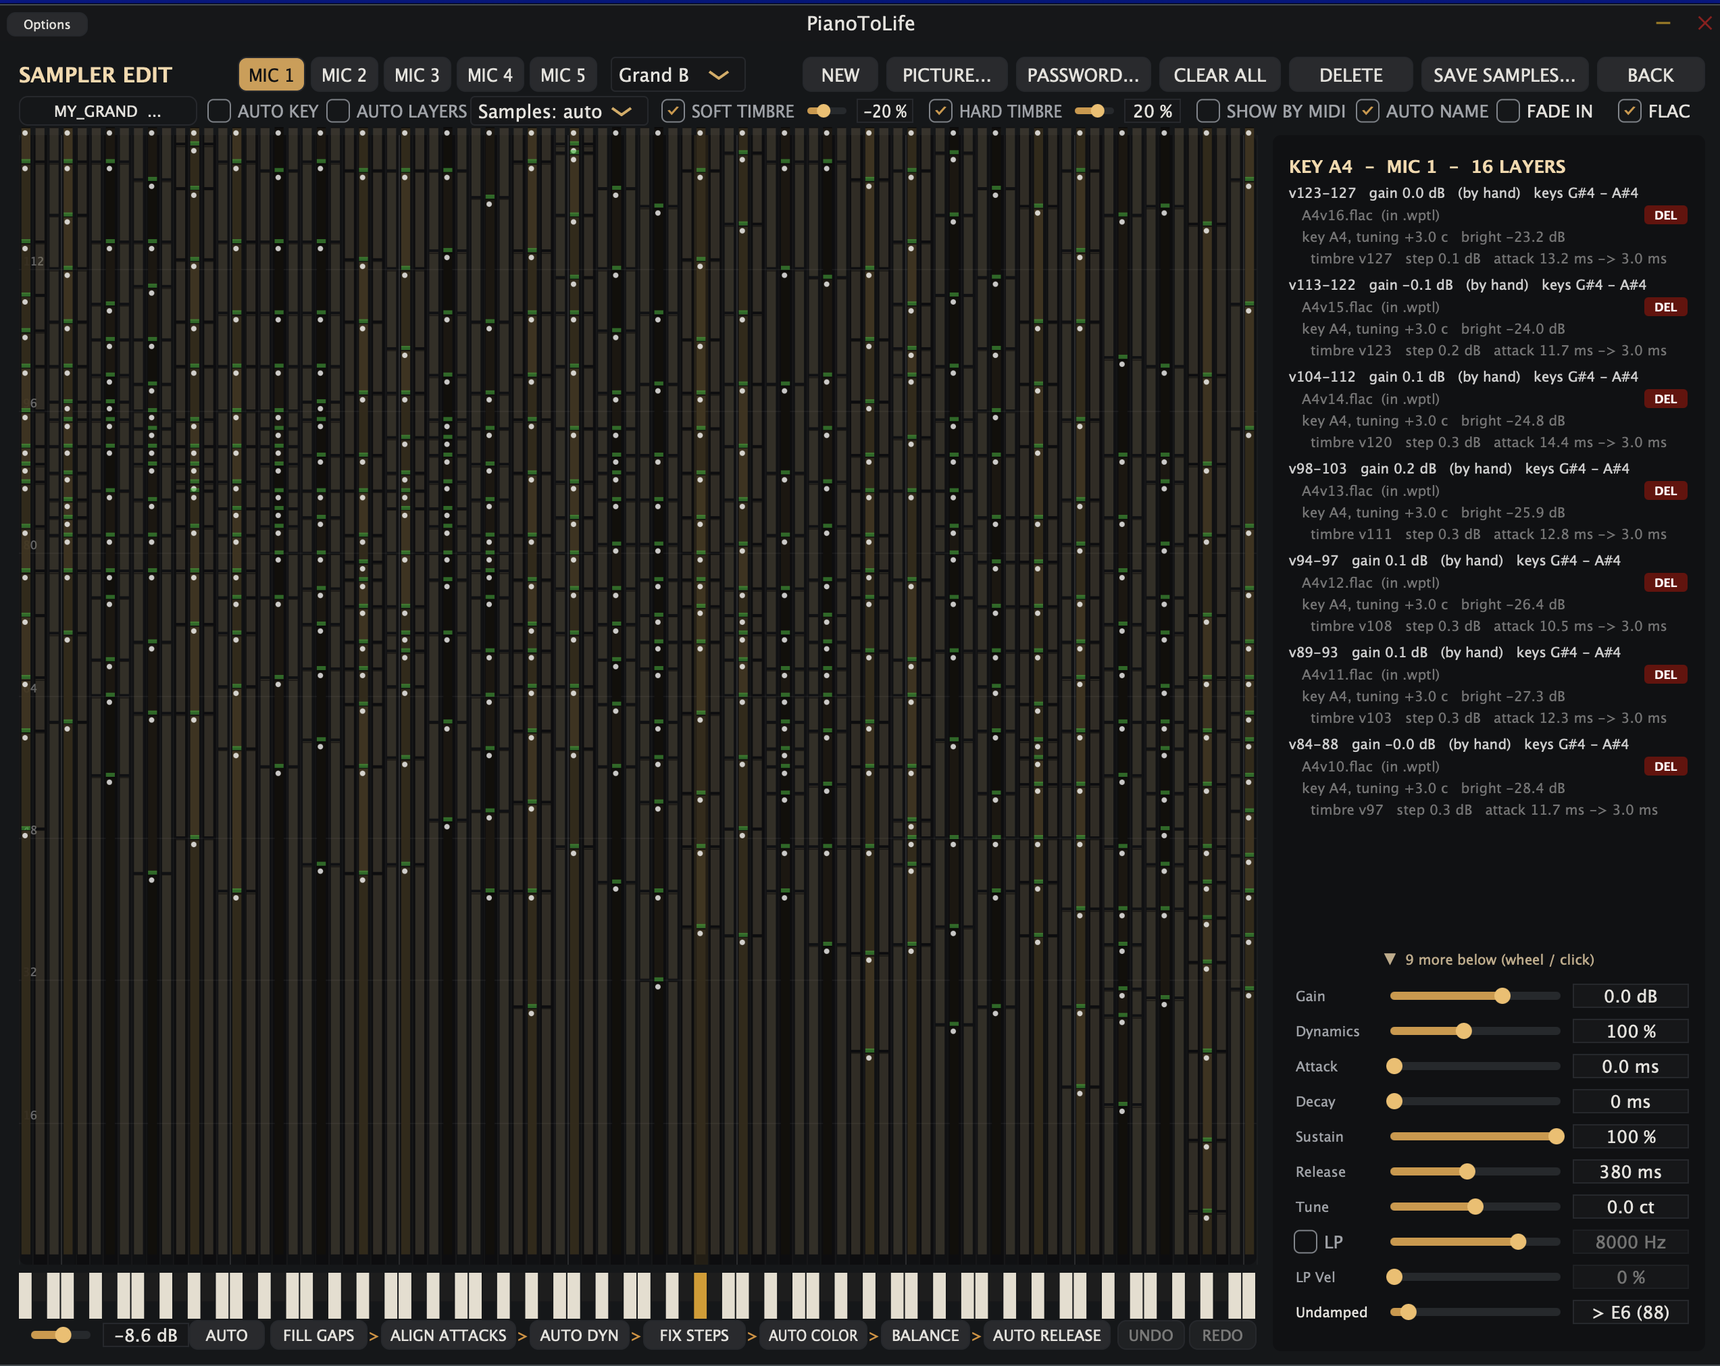
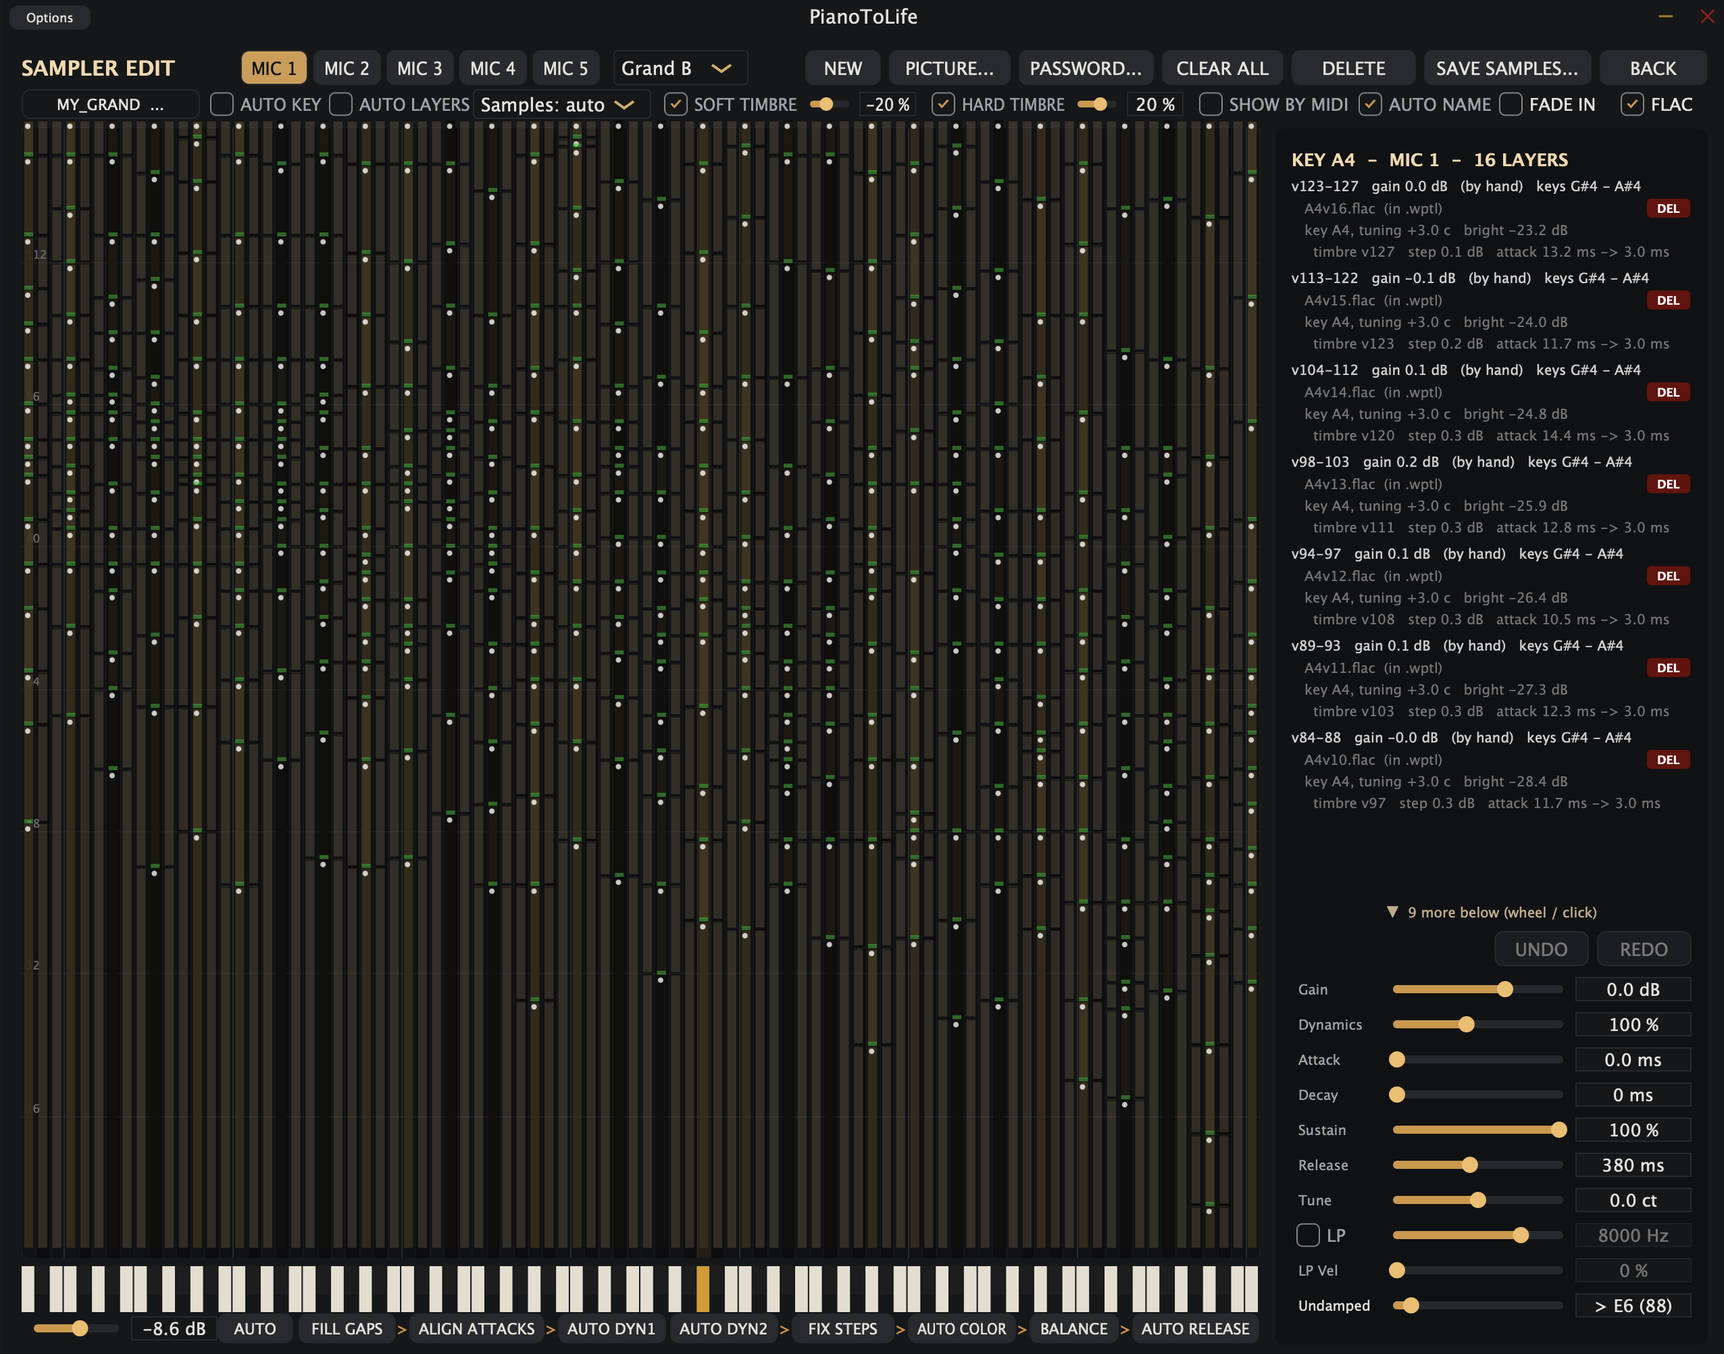
Add files via upload

diff --git a/MANUEL_SAMPLER.md b/MANUEL_SAMPLER.md
@@ -54,8 +54,9 @@ gigaoctets) sont lues depuis le disque en streaming et jouent tout aussi bien.
    couches de vélocité. Une barre de progression suit l'import ; cliquez sur la ligne d'état pour l'arrêter.
 5. Pour les autres positions de micro, choisissez **MIC 2**, **MIC 3**… et déposez leurs échantillons de la même
    façon.
-6. Cliquez sur **AUTO DYN** : PianoToLife écoute le A4, place ses couches sur l'intensité d'un vrai piano à queue,
-   puis cale toutes les touches de la même façon.
+6. Cliquez sur **AUTO DYN1** (une banque enregistrée de façon régulière d'une touche à l'autre) ou **AUTO DYN2** (une
+   banque irrégulière) : PianoToLife écoute le A4, place ses couches sur l'intensité d'un vrai piano à queue, puis cale
+   toutes les touches (10.6.2).
 7. Cliquez sur **FIX STEPS** : les frontières orange et rouges entre couches deviennent vertes.
 8. Cliquez sur **ALIGN ATTACKS** : chaque frappe démarre au même instant, quels que soient la couche et le micro.
 9. Cliquez sur **BALANCE ▸ Smooth** : le volume est régulier d'une touche à l'autre.
@@ -64,7 +65,8 @@ gigaoctets) sont lues depuis le disque en streaming et jouent tout aussi bien.
     et cliquez sur **SAVE AS** : l'instrument (`.ptlset`) est enregistré à côté de ses échantillons, avec le mapping et
     tous les réglages. Votre piano est prêt - deux fichiers, comme un `.nki` Kontakt et son `.nkx` (10.6.0).
 
-Chaque outil a son **UNDO** (Cmd / Ctrl + Z) et son **REDO** (Maj + Cmd / Ctrl + Z).
+Chaque outil a son **UNDO** (Cmd / Ctrl + Z) et son **REDO** (Maj + Cmd / Ctrl + Z) ; depuis la 10.6.2, les boutons
+UNDO et REDO sont dans le panneau de droite, juste au-dessus des réglages de la touche.
 
 ---
 
@@ -181,9 +183,9 @@ vélocité.
 ## 5. Les outils de mapping, dans l'ordre conseillé
 
 Les outils sont dans la barre du bas, **dans l'ordre où les utiliser**, avec un **>** entre eux (10.5.6) :
-**FILL GAPS > ALIGN ATTACKS > AUTO DYN > FIX STEPS > AUTO COLOR > BALANCE > AUTO RELEASE**. Avec des zones
-sélectionnées, la plupart agissent **sur leurs touches seulement** ; sans sélection, **sur toutes les touches** du
-micro affiché. AUTO DYN agit toujours sur toutes les touches. **SHOW BY MIDI** ne sélectionne rien : cliquez dans une
+**FILL GAPS > ALIGN ATTACKS > AUTO DYN1 ou AUTO DYN2 > FIX STEPS > AUTO COLOR > BALANCE > AUTO RELEASE**. Avec des
+zones sélectionnées, la plupart agissent **sur leurs touches seulement** ; sans sélection, **sur toutes les touches**
+du micro affiché. AUTO DYN1 et AUTO DYN2 agissent toujours sur toutes les touches. **SHOW BY MIDI** ne sélectionne rien : cliquez dans une
 partie vide de la grille pour vider la sélection avant de travailler sur toutes les touches.
 
 1. **FILL GAPS** — chaque touche sans échantillon est jouée par la touche échantillonnée la plus proche, transposée
@@ -191,10 +193,15 @@ partie vide de la grille pour vider la sélection avant de travailler sur toutes
 2. **ALIGN ATTACKS** — trouve la frappe dans chaque échantillon et fait démarrer chaque couche et chaque micro 3 ms
    avant : plus de flottement quand la nuance change, des micros en phase. Les fichiers ne sont pas modifiés. Avant
    AUTO DYN, pour qu'il écoute des frappes bien alignées.
-3. **AUTO DYN** (appelé RECAL A4 avant la 10.4.2) — écoute le A4 aux 127 vélocités, place ses couches là où leur
-   intensité les met sur la courbe de référence et les met à niveau. Il mesure aussi l'accord du A4 (envoyé à SR A4
-   Tuning : 440 Hz joue le set tel qu'il a été enregistré). **Depuis la 10.5.6, chaque autre touche est écoutée et
-   placée pour elle-même**, quel que soit son nombre de couches, sur la même courbe de référence (la courbe de niveau
+3. **AUTO DYN1 / AUTO DYN2** (10.6.2 ; un seul AUTO DYN avant, appelé RECAL A4 avant la 10.4.2) — tous deux écoutent
+   le A4 aux 127 vélocités, placent ses couches là où leur intensité les met sur la courbe de référence et les mettent
+   à niveau. Ils mesurent aussi l'accord du A4 (envoyé à SR A4 Tuning : 440 Hz joue le set tel qu'il a été enregistré).
+   Ensuite :
+   - **AUTO DYN1** (global, comme avant la 10.5.6) : chaque touche qui a **autant de couches que le A4** reçoit les
+     plages de vélocité du A4 et est mise à niveau ; les touches qui ont un autre nombre de couches restent telles
+     quelles (AUTO DYN2 les place). Pour une banque enregistrée de façon régulière d'une touche à l'autre.
+   - **AUTO DYN2** (par touche, l'AUTO DYN de la 10.5.6) : **chaque autre touche est écoutée et placée pour
+     elle-même**, quel que soit son nombre de couches, sur la même courbe de référence (la courbe de niveau
    de la référence est la même sur toutes les touches), puis **lissée avec ses voisines** (2 touches de chaque côté)
    pour que les frontières ne sautent pas d'une touche à l'autre, et mise à niveau. Les banques irrégulières (une
    couche jouée plus fort sur certaines touches, un échantillonnage à la main, une couche absente dans un registre)
@@ -206,7 +213,8 @@ partie vide de la grille pour vider la sélection avant de travailler sur toutes
    régulièrement de v1 jusqu'à la première couche au-dessus, leurs gains calés sur la courbe de référence (Dynamics ne
    change pas ; le souffle d'une couche très douce monte avec son gain).
 4. **FIX STEPS** — déplace les frontières orange et rouges vers la vélocité où les deux timbres se rejoignent,
-   lissée sur les touches voisines. À lancer **après** AUTO DYN (AUTO DYN replace les frontières selon l'intensité).
+   lissée sur les touches voisines. À lancer **après** AUTO DYN1 / DYN2 (ils replacent les frontières selon
+   l'intensité).
 5. **AUTO COLOR** (10.5.1) — règle SOFT COLOR et HARD COLOR pour que la brillance des couches suive la couleur du piano
    de référence, du piano au forte (mesurée sur A2, A3, A4, A5 à 13 vélocités, 2–4 et 4–8 kHz, comme sur la référence ;
    seule la forme compte, un piano peut rester plus clair ou plus sombre dans l'ensemble). SOFT / HARD TIMBRE activés.
@@ -221,7 +229,9 @@ partie vide de la grille pour vider la sélection avant de travailler sur toutes
 7. **AUTO RELEASE** — le temps de relâchement de chaque touche, mesuré sur un piano de concert (380 à 510 ms jusqu'à
    −60 dB), Infinite au-dessus de **Undamped Keys Above**. Ce réglage est aussi dans le panneau de touche
    (**Undamped**, le même que celui de la fenêtre principale) ; bougé à la main, les touches qui le franchissent
-   reçoivent de nouveau AUTO RELEASE (10.3.8).
+   reçoivent de nouveau AUTO RELEASE (10.3.8). Depuis la 10.6.2, AUTO RELEASE affiche d'abord la dernière touche avec
+   étouffoir et demande si c'est bien la dernière note étouffée de votre piano ; changez-la là si besoin (le même
+   réglage partout), puis AUTO RELEASE se lance.
 8. **LEVEL** et **AUTO** (à gauche des outils, près du curseur de niveau) — le niveau de tout le set ; AUTO fait
    culminer la note la plus forte à la vélocité 127 à −9 dBFS (de la marge pour les accords, la résonance et le
    relâchement). De préférence à la fin.

diff --git a/SAMPLER_MANUAL.md b/SAMPLER_MANUAL.md
@@ -52,8 +52,8 @@ disk and play just as well.
    Decent Sampler `.dspreset`. PianoToLife listens to each sample, finds its key, and places the velocity layers. A
    progress bar shows the import; click the status line to stop it.
 5. For other microphone positions, select **MIC 2**, **MIC 3**… and drop their samples the same way.
-6. Click **AUTO DYN**: PianoToLife listens to A4, places its layers on the loudness of a real grand, then maps every
-   key the same way.
+6. Click **AUTO DYN1** (a library recorded evenly key to key) or **AUTO DYN2** (an uneven one): PianoToLife listens
+   to A4, places its layers on the loudness of a real grand, then maps every key (10.6.2).
 7. Click **FIX STEPS**: the orange and red layer boundaries become green.
 8. Click **ALIGN ATTACKS**: every strike starts at the same moment, whatever the layer and microphone.
 9. Click **BALANCE ▸ Smooth**: the volume is even from one key to the next.
@@ -62,7 +62,8 @@ disk and play just as well.
     (`.ptlset`) is saved beside its samples with the mapping and every setting. Your piano is ready - two files, like a
     Kontakt `.nki` and its `.nkx` (10.6.0).
 
-Every tool has **UNDO** (Cmd / Ctrl + Z) and **REDO** (Shift + Cmd / Ctrl + Z).
+Every tool has **UNDO** (Cmd / Ctrl + Z) and **REDO** (Shift + Cmd / Ctrl + Z); since 10.6.2 the UNDO and REDO
+buttons are in the right panel, just above the key's settings.
 
 ---
 
@@ -172,9 +173,9 @@ or set its COLOR to −100 %. With SOFT TIMBRE on, the steps between velocity la
 ## 5. The mapping tools, in the recommended order
 
 The tools are in the bottom bar, **in the order to use them**, with **>** between them (10.5.6):
-**FILL GAPS > ALIGN ATTACKS > AUTO DYN > FIX STEPS > AUTO COLOR > BALANCE > AUTO RELEASE**. With zones selected,
-most of them work on **their keys only**; with nothing selected, on **every key** of the displayed microphone.
-AUTO DYN always works on every key. **SHOW BY MIDI** never selects anything: click an empty part of the grid to clear
+**FILL GAPS > ALIGN ATTACKS > AUTO DYN1 or AUTO DYN2 > FIX STEPS > AUTO COLOR > BALANCE > AUTO RELEASE**. With
+zones selected, most of them work on **their keys only**; with nothing selected, on **every key** of the displayed
+microphone. AUTO DYN1 and AUTO DYN2 always work on every key. **SHOW BY MIDI** never selects anything: click an empty part of the grid to clear
 a selection before working on every key.
 
 1. **FILL GAPS** — every key without a sample is played by the nearest sampled key, transposed (half the gap each
@@ -182,9 +183,13 @@ a selection before working on every key.
 2. **ALIGN ATTACKS** — finds the strike in every sample and makes every layer and every microphone start 3 ms before
    it: no flam when the dynamics change, microphones in phase. The files are not changed. Before AUTO DYN, so that it
    listens to well-aligned strikes.
-3. **AUTO DYN** (called RECAL A4 before 10.4.2) — listens to A4 at all 127 velocities, places its layers where their
-   loudness belongs on the reference curve and levels them. It also measures A4's tuning (sent to SR A4 Tuning, so
-   440 Hz plays the set as recorded). **Since 10.5.6 every other key is listened to and placed on its own**, whatever
+3. **AUTO DYN1 / AUTO DYN2** (10.6.2; one AUTO DYN before, called RECAL A4 before 10.4.2) — both listen to A4 at all
+   127 velocities, place its layers where their loudness belongs on the reference curve and level them. They also
+   measure A4's tuning (sent to SR A4 Tuning, so 440 Hz plays the set as recorded). Then:
+   - **AUTO DYN1** (global, as before 10.5.6): every key with **as many layers as A4** gets A4's velocity ranges and is
+     levelled; keys with another number of layers are left as they are (AUTO DYN2 places them). For a library
+     recorded evenly key to key.
+   - **AUTO DYN2** (per key, the AUTO DYN of 10.5.6): **every other key is listened to and placed on its own**, whatever
    its number of layers, on the same reference curve (the reference's level curve is the same on every key), then
    **smoothed with its neighbours** (2 keys each side) so that the boundaries do not jump from one key to the next, and
    levelled. Uneven libraries (a layer played louder on some keys, manual sampling, a layer missing in a register)
@@ -195,7 +200,7 @@ a selection before working on every key.
    ever plays) they are spread evenly from v1 up to the first layer above, their gains set on the reference curve
    (Dynamics is not changed; a very soft layer's noise comes up with its gain).
 4. **FIX STEPS** — moves the orange / red boundaries to the velocity where the two timbres meet, smoothed over the
-   neighbouring keys. Run it **after** AUTO DYN (AUTO DYN places the boundaries by loudness again).
+   neighbouring keys. Run it **after** AUTO DYN1 / DYN2 (they place the boundaries by loudness again).
 5. **AUTO COLOR** (10.5.1) — sets SOFT COLOR and HARD COLOR so that the brightness of the layers follows the colour of
    the reference piano from soft to loud (measured on A2, A3, A4, A5 at 13 velocities, 2–4 and 4–8 kHz, as on the
    reference; only the shape counts, a piano may stay brighter or darker overall). SOFT / HARD TIMBRE on. Run it again
@@ -207,7 +212,9 @@ a selection before working on every key.
    It sets the key gains (at most ±6 dB); velocity ranges, layer gains and dynamics are not touched.
 7. **AUTO RELEASE** — each key's release time as measured on a concert grand (380–510 ms to −60 dB), Infinite above
    **Undamped Keys Above**. That setting is also in the key panel (**Undamped**, the same as the main window's);
-   moved by hand, the keys that cross it get AUTO RELEASE again (10.3.8).
+   moved by hand, the keys that cross it get AUTO RELEASE again (10.3.8). Since 10.6.2, AUTO RELEASE first shows the
+   last key with a damper and asks whether it really is your piano's last damped note; change it there if needed
+   (the same setting everywhere), then AUTO RELEASE runs.
 8. **LEVEL** and **AUTO** (left of the tools, by the level slider) — the level of the whole set; AUTO makes the loudest
    note at velocity 127 peak at −9 dBFS (room for chords, resonance and release). Best done at the end.
 

diff --git a/MANUEL.md b/MANUEL.md
@@ -199,7 +199,13 @@ est alors libre de résonner. **≤ 1** (par défaut), **≤ 2**, **≤ 3** = le
 **Disklavier / N1** = aftertouch polyphonique 127 / 0 ; **Off** = aucun.
 
 **PANIC** (10.4.2, entre Silent Key et DEFAULT) : arrête d'un coup tout ce qui sonne — notes bloquées, résonance, voix
-du sampler, salle et lecteur MIDI — et envoie au piano hébergé All Notes Off, All Sound Off et les pédales relevées.
+du sampler, salle, cordes rattrapées (10.6.2) et lecteur MIDI — et envoie au piano hébergé All Notes Off, All Sound
+Off et les pédales relevées.
+
+**Une lecture part d'un piano propre** (10.6.2) : quand votre DAW démarre ou saute ailleurs (curseur déplacé, boucle),
+et au PLAY / BOUNCE de l'application autonome, PianoToLife arrête ce qui sonne encore et remonte les pédales, puis
+reprend celles que le DAW envoie : un même passage sonne toujours pareil, où que vous le lanciez. Le jeu en direct ne
+change pas.
 
 ---
 
@@ -323,13 +329,17 @@ signaler un clavier qui se comporte à sa façon.
   **Listes de lecture** (10.4.2) : LOAD MIDI ouvre un menu — plusieurs fichiers MIDI d'un coup, un dossier, ou une
   liste **.m3u** ; les morceaux s'enchaînent, **◀ / ▶** passent au précédent / suivant, et le menu permet de lire la
   liste en boucle ou de l'enregistrer en .m3u. Un fichier manquant est sauté. BOUNCE enregistre le morceau chargé, jusqu'à ce que le son s'éteigne (10.5.4 : les notes encore tenues à la fin sonnent jusqu'au bout).
+  Vous pouvez aussi **déposer des fichiers MIDI sur la fenêtre** (10.6.2) : un fichier, plusieurs (une liste de
+  lecture, dans l'ordre de leurs noms) ou un .m3u, comme avec LOAD MIDI. **II (PAUSE)** (10.6.2) : le son s'arrête là
+  où il est et la position est gardée ; recliquez pour reprendre de là (avec un piano propre et les pédales du fichier
+  à cet endroit). PLAY repart du début.
   **METRO** (10.4.2) : clic = métronome marche / arrêt (le bouton affiche le tempo) ; clic droit = tempo (30–360 BPM,
   TAP), mesure (aucune, 1/1, 2/2, 2/4, 3/4, 4/4, 5/4, 8/4, 3/8, 6/8, 7/8, 8/8, 9/8, 12/8 — premier temps accentué, les groupes plus légèrement), son (bois ou bip), volume et **décompte**. On l'entend seulement — jamais
   dans un bounce ni dans la prise MIDI. Métronome en marche, REC démarre sur une mesure (après une mesure de décompte
   si coché) et le tempo et la mesure sont écrits dans le fichier MIDI : la prise tombe sur la grille d'un DAW.
 - **Vue compacte** : réduit l'interface à une petite barre pendant que vous jouez. Depuis la 10.4.2, elle garde aussi ce
   qui sert en jouant : le lecteur MIDI et METRO (application autonome), l'accord joué, un clavier éclairé et cliquable,
-  TRUE PEAK et LUFS.
+  TRUE PEAK et LUFS, et depuis la 10.6.2 la liste des presets (les instruments en mode SAMPLER).
 - **Vue de la mécanique des étouffoirs** : les étouffoirs et les cordes en direct (touches tenues en orange), sans
   coût CPU. Depuis la 10.4.0 :
   - **un clavier de 88 touches** sous les cordes s'allume avec elles ; sa couleur suit la vélocité (pâle = doux,

diff --git a/USER_MANUAL.md b/USER_MANUAL.md
@@ -190,8 +190,12 @@ string is free to resonate. **≤ 1** (default), **≤ 2**, **≤ 3** = notes at
 N1** = polyphonic aftertouch 127 / 0; **Off** = none.
 
 **PANIC** (10.4.2, between Silent Key and DEFAULT): stops everything that sounds at once — stuck notes, the resonance,
-the sampler's voices, the room and the MIDI player — and sends All Notes Off, All Sound Off and the pedals up to the
-hosted piano.
+the sampler's voices, the room, the caught strings (10.6.2) and the MIDI player — and sends All Notes Off, All Sound
+Off and the pedals up to the hosted piano.
+
+**A playback starts from a clean piano** (10.6.2): when your DAW starts playing or jumps to another place (cursor moved,
+cycle), and at the standalone's PLAY / BOUNCE, PianoToLife stops what still sounds and puts the pedals up, then takes
+the pedals the DAW sends: the same passage always sounds the same, wherever you start it. Live playing is unchanged.
 
 ---
 
@@ -308,12 +312,17 @@ goes to the **Host**. Differences are highlighted;
   **Playlists** (10.4.2): LOAD MIDI opens a menu — load several MIDI files at once, a folder, or an **.m3u** list;
   the pieces follow one another, **◀ / ▶** go to the previous / next one, and the menu can loop the playlist or save
   it as an .m3u. A missing file is skipped. BOUNCE records the piece loaded, until its sound has died away (10.5.4: notes still held at the end ring out).
+  You can also **drop MIDI files on the window** (10.6.2): one file, several (a playlist, in the order of their names)
+  or an .m3u, as with LOAD MIDI. **II (PAUSE)** (10.6.2): the sound stops where it is and the place is kept; click
+  again to go on from there (from a clean piano, with the pedals the file has at that point). PLAY starts from the
+  beginning.
   **METRO** (10.4.2): click = metronome on / off (the button shows the tempo); right-click = tempo (30–360 BPM, TAP),
   bar (none, 1/1, 2/2, 2/4, 3/4, 4/4, 5/4, 8/4, 3/8, 6/8, 7/8, 8/8, 9/8, 12/8 — first beat accented, the groups lighter), sound (wood or beep), volume and **count-in**. It is heard only — never in a
   bounce nor in the MIDI take. With the metronome on, REC starts on a bar (after one bar of count-in when ticked) and
   the tempo and time signature are written in the saved MIDI file, so the take sits on the grid of a DAW.
 - **Compact view**: fold the interface into a small bar while you play. Since 10.4.2 it also has what serves while
-  playing: the MIDI player and METRO (standalone), the chord you play, a lit and clickable keyboard, TRUE PEAK and LUFS.
+  playing: the MIDI player and METRO (standalone), the chord you play, a lit and clickable keyboard, TRUE PEAK and LUFS,
+  and since 10.6.2 the preset list (the instruments in SAMPLER mode).
 - **Damper mechanics view**: a live view of the dampers and strings (held keys in orange), at no CPU cost. Since
   10.4.0:
   - **an 88-key keyboard** under the strings lights up with them; its colour follows the velocity (pale = soft, full
